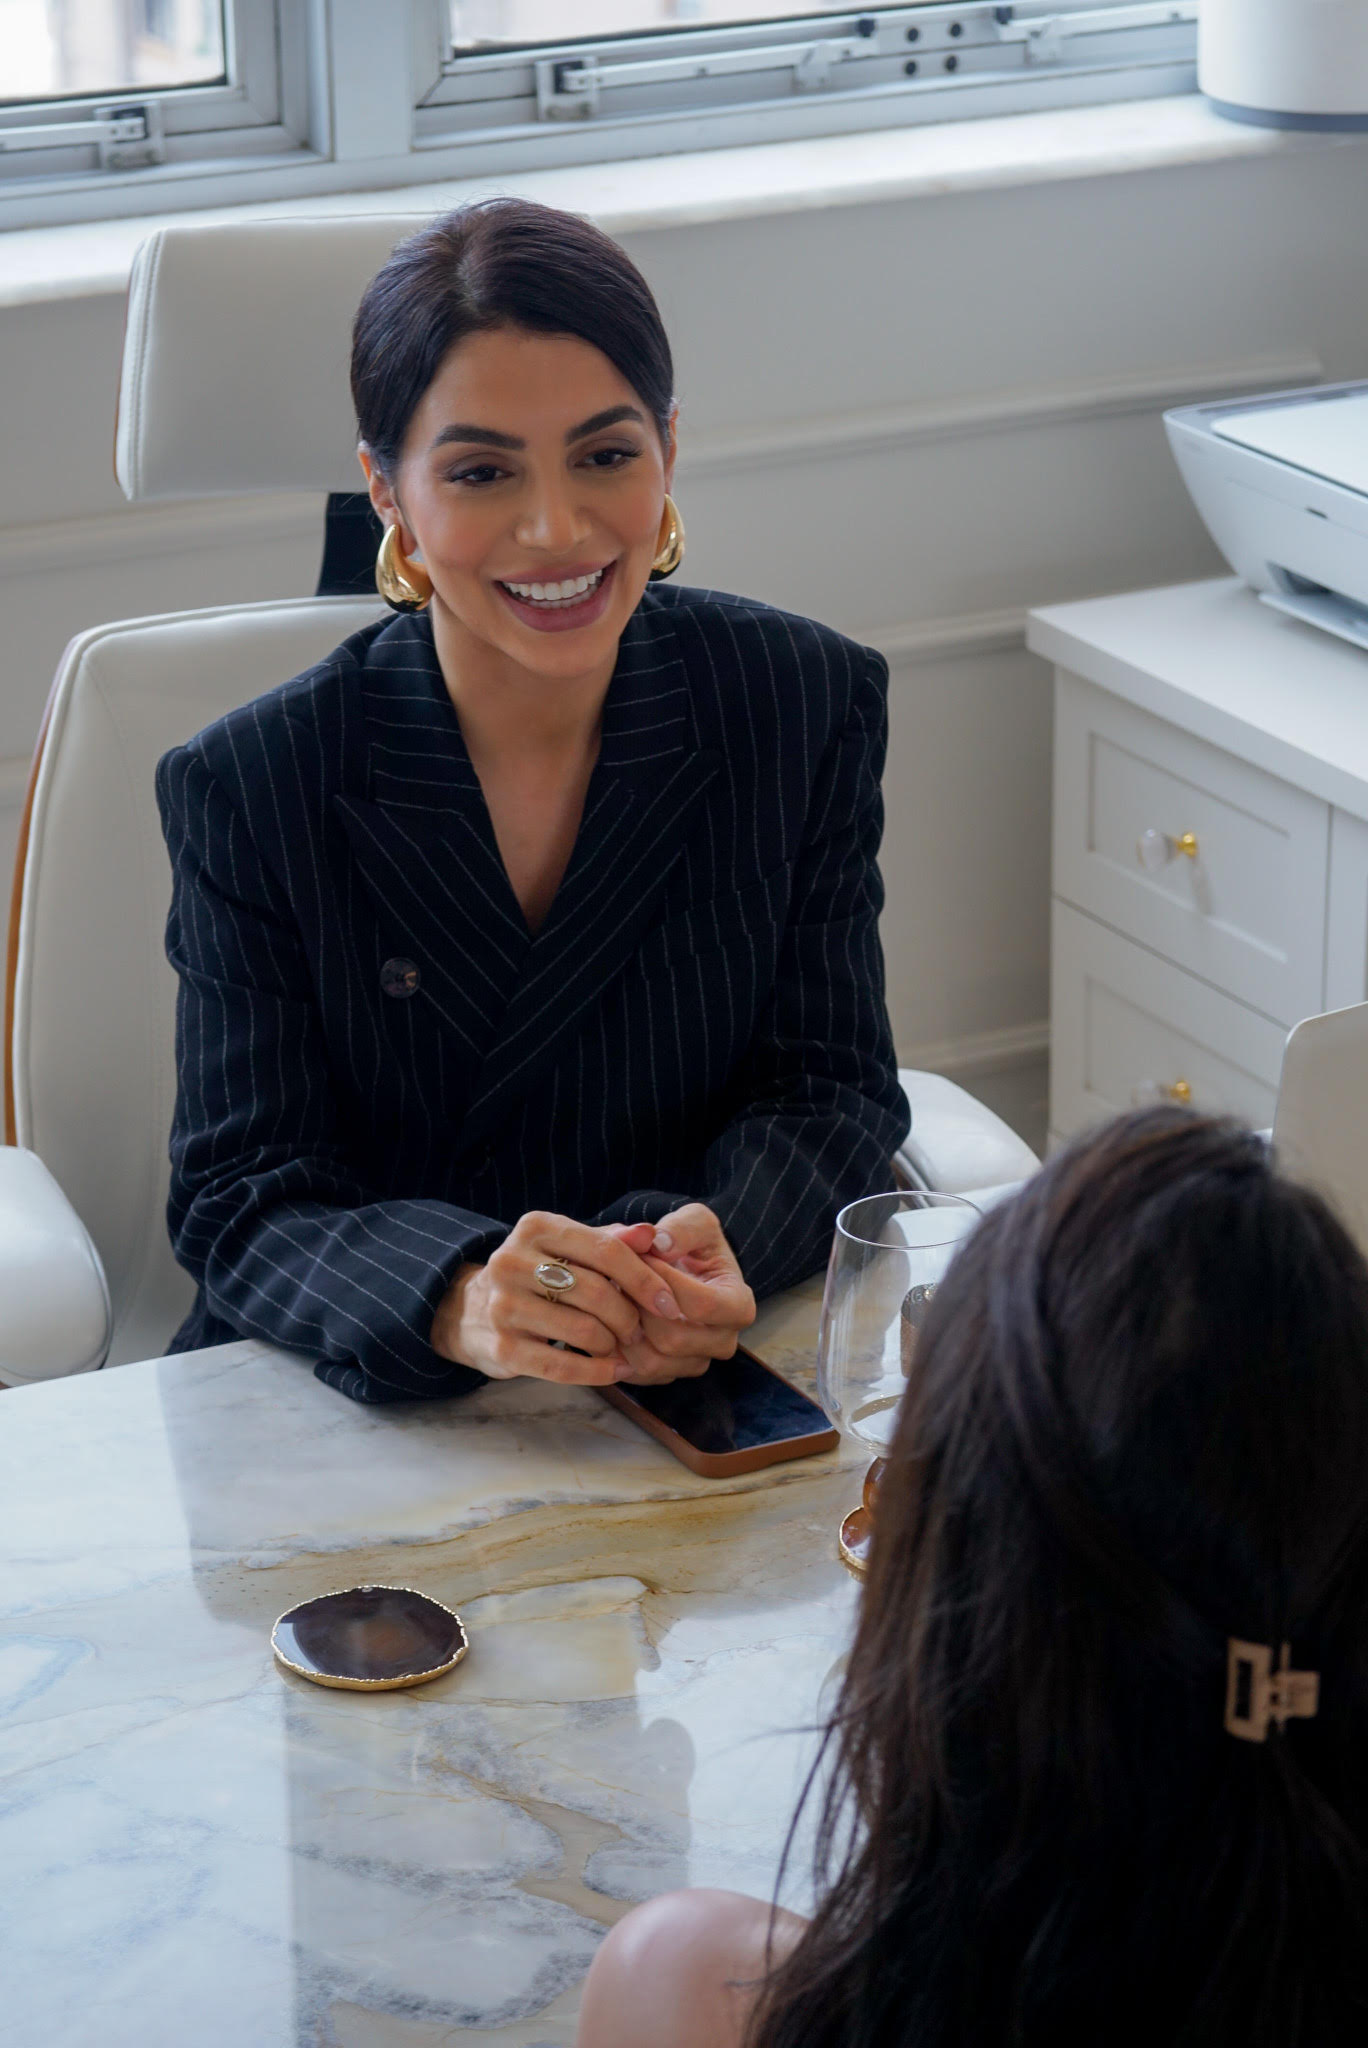
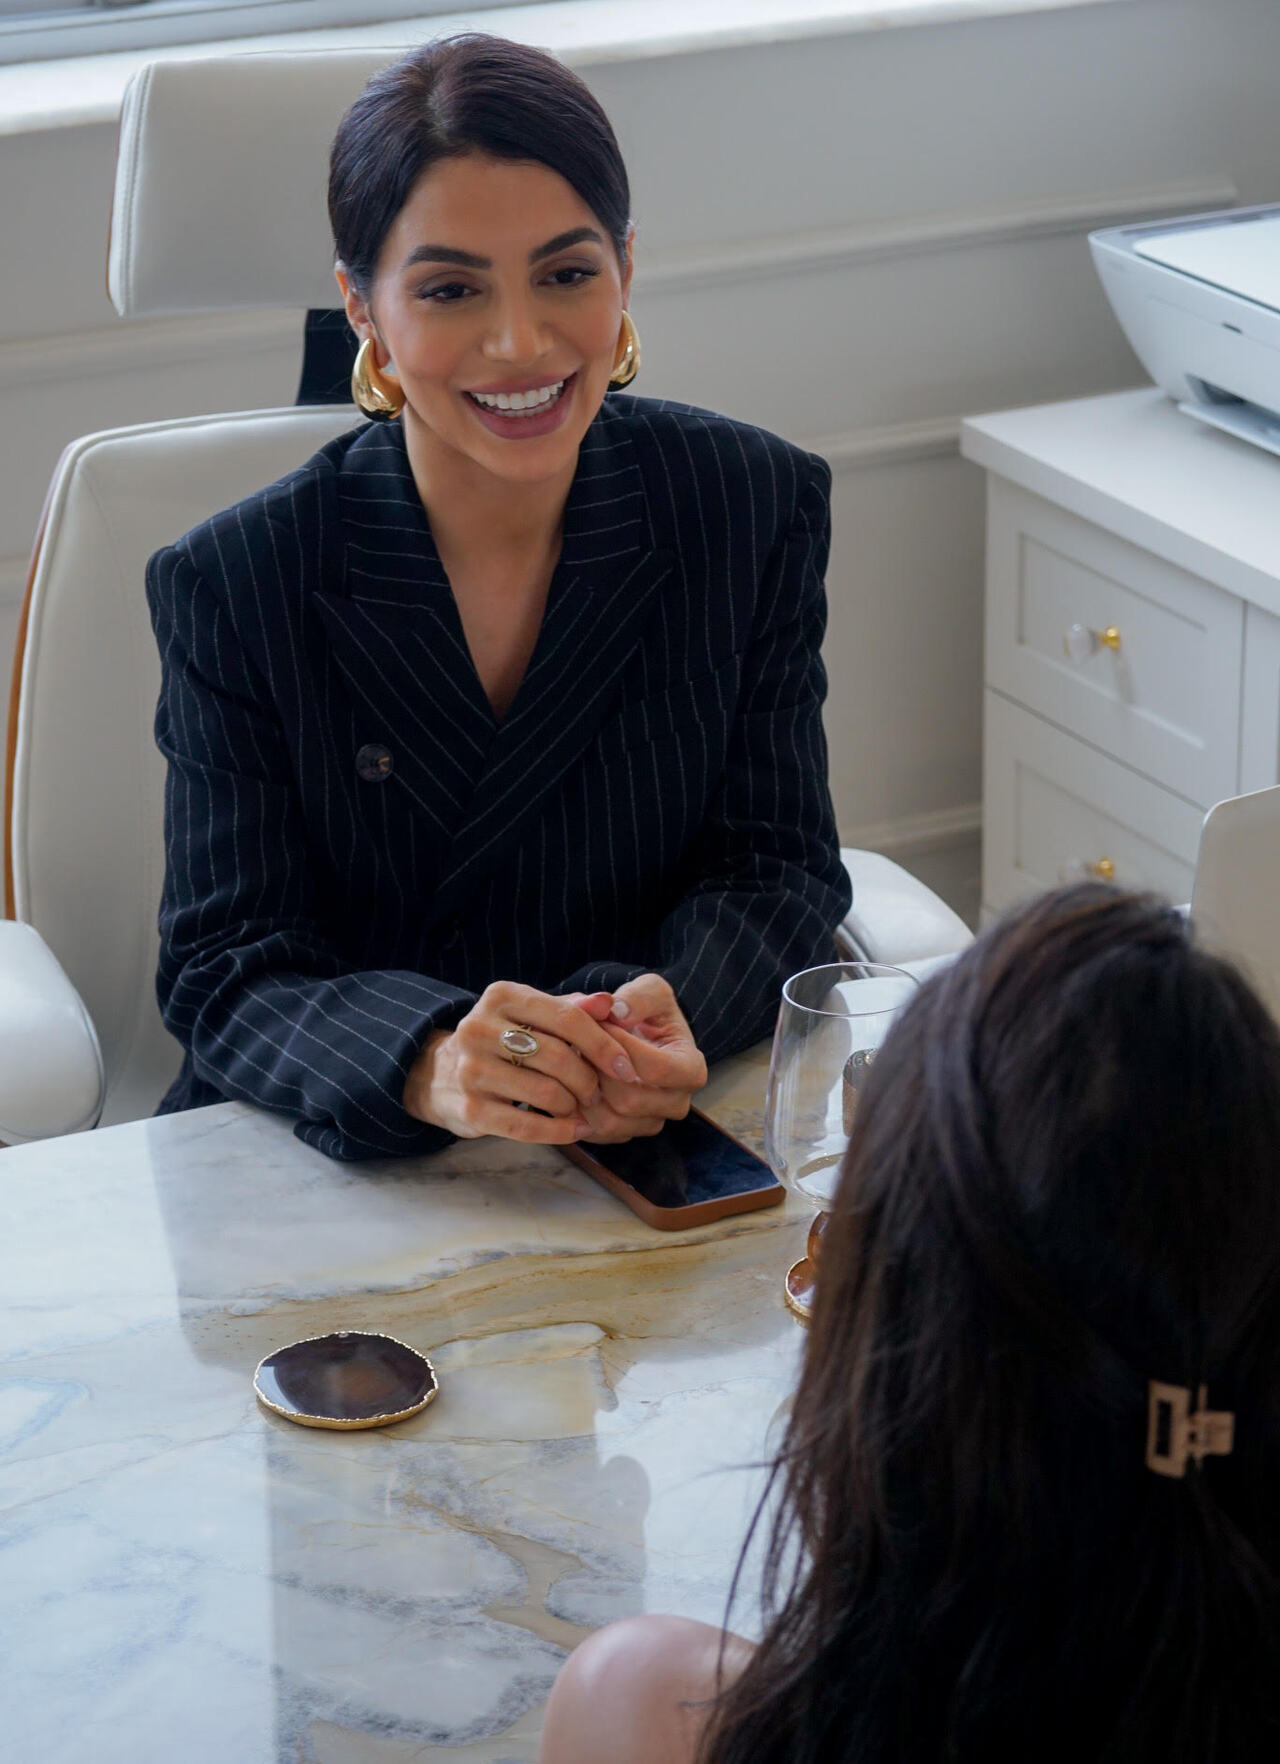
improve hero  photos

diff --git a/index.html b/index.html
@@ -90,8 +90,8 @@
 
         <div id="hero-carousel" class="carousel slide carousel-fade" data-bs-ride="carousel" data-bs-interval="5000">
 
-          <div class="carousel-item">
-            <img src="assets/img/hero-carousel/fr1.jpg" alt="">
+          <div class="carousel-item active">
+            <img class="center-aligned" src="assets/img/hero-carousel/fr4.jpg" alt="">
             <div class="carousel-container">
               <h2>Franciane Rossone</h2>
               <h3>Cirurgia Plástica</h3>
@@ -100,20 +100,17 @@
           </div><!-- End Carousel Item -->
 
           <div class="carousel-item">
-            <img src="assets/img/hero-carousel/fr4.jpg" alt="">
+            <img class="top-aligned" src="assets/img/hero-carousel/fr1.jpg" alt="">
             <div class="carousel-container">
               <h2>Você na sua melhor versão</h2>
-              <h3>Nosso filosofia consiste em valorizar sua beleza, que é
-                <strong>única</strong>.
-              </h3>
               <a href="#" class="btn-get-started">Consulta</a>
             </div>
           </div><!-- End Carousel Item -->
 
-          <div class="carousel-item active">
-            <img src="assets/img/hero-carousel/fr7.jpg" alt="">
+          <div class="carousel-item">
+            <img class="top-aligned" src="assets/img/hero-carousel/fr7.jpg" alt="">
             <div class="carousel-container">
-              <h3>A forma que você se vê no espelho importa e <strong>você pode ser sua melhor versão</strong>.</h3>
+              <h2>A forma como você se vê no espelho é importante pra gente</h2>
               <a href="#" class="btn-get-started">Consulta</a>
             </div>
           </div><!-- End Carousel Item -->
@@ -637,7 +634,7 @@
 
             <div class="tab-pane fade active show" id="noncirurgicos-tab-1" role="tabpanel">
               <div class="row">
-                <div class="col-lg-6 order-2 order-lg-1 mt-3 mt-lg-0 d-flex flex-column justify-content-center">
+                <div class="col-lg-12 order-2 order-lg-1 mt-3 mt-lg-0 d-flex flex-column justify-content-center">
                   <h3>Bioestimuladores de colágeno</h3>
                   <p class="fst-italic">
                     São ativos injetados na camada mais profunda da pele para
@@ -668,7 +665,7 @@
 
             <div class="tab-pane fade" id="noncirurgicos-tab-2" role="tabpanel">
               <div class="row">
-                <div class="col-lg-6 order-2 order-lg-1 mt-3 mt-lg-0 d-flex flex-column justify-content-center">
+                <div class="col-lg-12 ord12r-2 order-lg-1 mt-3 mt-lg-0 d-flex flex-column justify-content-center">
                   <h3>Botox</h3>
                   <h5>Como ele age?</h5>
                   <p>A toxina botulínica age paralisando a musculatura da mímica
@@ -691,7 +688,7 @@
 
             <div class="tab-pane fade" id="noncirurgicos-tab-3" role="tabpanel">
               <div class="row">
-                <div class="col-lg-6 order-2 order-lg-1 mt-3 mt-lg-0 d-flex flex-column justify-content-center">
+                <div class="col-lg-12 ord12r-2 order-lg-1 mt-3 mt-lg-0 d-flex flex-column justify-content-center">
                   <h3>Preenchimento</h3>
                   <h5>Facial</h5>
                   <p>Os preenchimentos usados são a base de ácido hialurônico,
@@ -716,7 +713,7 @@
 
             <div class="tab-pane fade" id="noncirurgicos-tab-4" role="tabpanel">
               <div class="row">
-                <div class="col-lg-6 order-2 order-lg-1 mt-3 mt-lg-0 d-flex flex-column justify-content-center">
+                <div class="col-lg-12 ord12r-2 order-lg-1 mt-3 mt-lg-0 d-flex flex-column justify-content-center">
                   <h3>Fios</h3>
                   <p>
                     Existem hoje diversos tipos e modelos de fios. Os fios
@@ -734,7 +731,7 @@
 
             <div class="tab-pane fade" id="noncirurgicos-tab-5" role="tabpanel">
               <div class="row">
-                <div class="col-lg-6 order-2 order-lg-1 mt-3 mt-lg-0 d-flex flex-column justify-content-center">
+                <div class="col-lg-12 order-2 order-lg-1 mt-3 mt-lg-0 d-flex flex-column justify-content-center">
                   <h3>Ultraformer</h3>
                   <p class="fst-italic">É um ultrassom micro e macrofocado, ou seja pode ser
                     utilizado em tratamentos faciais e corporais.

diff --git a/assets/css/main.css b/assets/css/main.css
@@ -825,7 +825,7 @@ section,
 
 .hero .carousel {
   width: 100%;
-  min-height: 70vh;
+  height: 100vh;
   padding: 0;
   margin: 0;
   background-color: var(--background-color);
@@ -840,14 +840,25 @@ section,
   }
 }
 
-.hero img {
+.top-aligned{
   position: absolute;
   inset: 0;
   display: block;
   width: 100%;
   height: 100%;
   object-fit: cover; /* Garante que a imagem cubra a área do contêiner */
-  object-position: center; /* Alinha a imagem no topo */
+  object-position: top; /* Alinha a imagem no topo */
+  z-index: 1;
+}
+
+.center-aligned{
+  position: absolute;
+  inset: 0;
+  display: block;
+  width: 100%;
+  height: 100%;
+  object-fit: cover; /* Garante que a imagem cubra a área do contêiner */
+  object-position: center center; /* Alinha a imagem no topo */
   z-index: 1;
 }
 
@@ -894,7 +905,7 @@ section,
 }
 
 .hero .carousel-item h2 {
-  margin-bottom: 30px;
+  margin-top: 5em;
   font-size: 48px;
   font-weight: 700;
   animation: fadeInDown 1s both;
